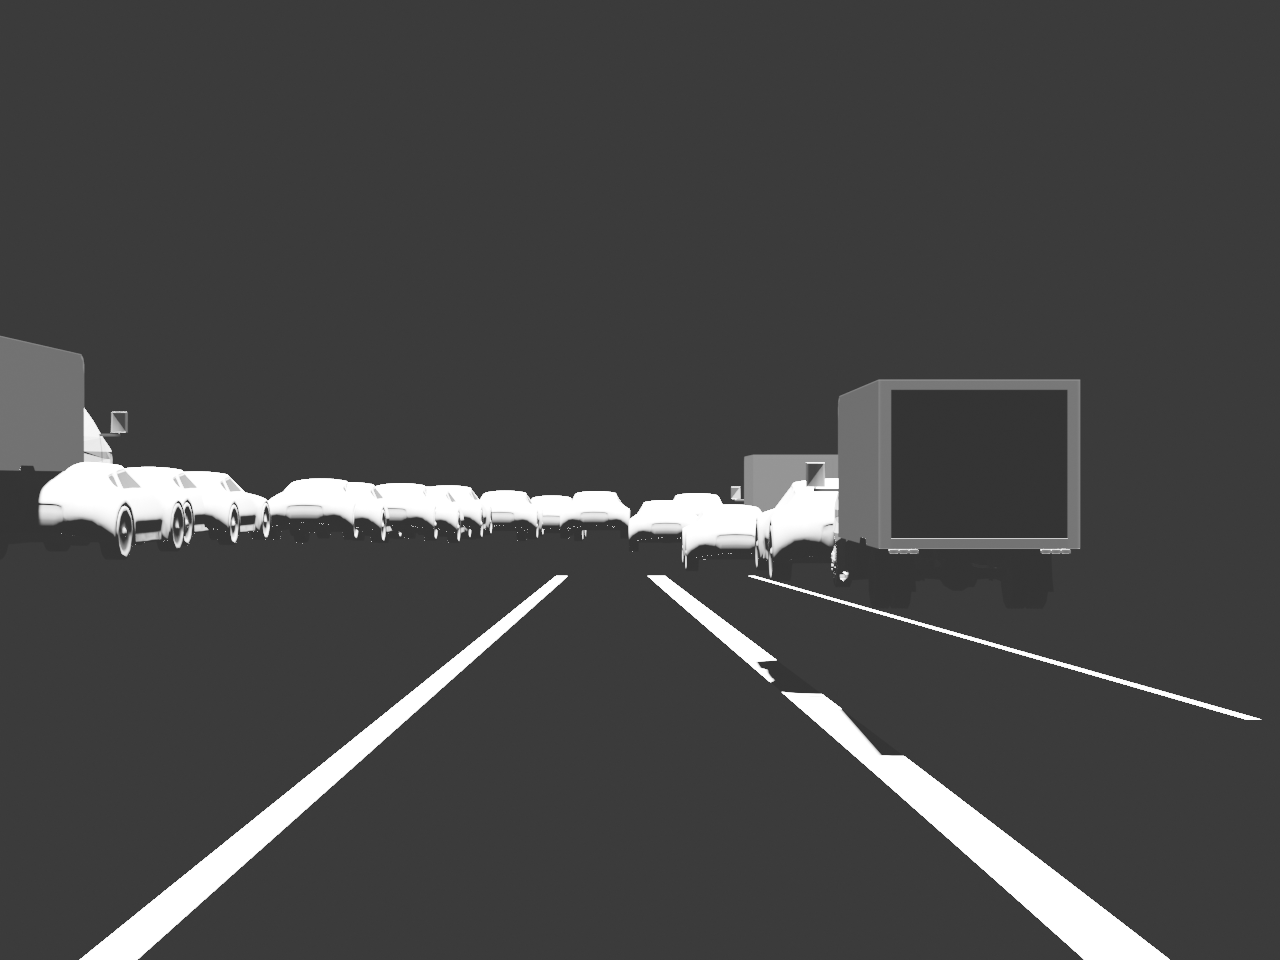
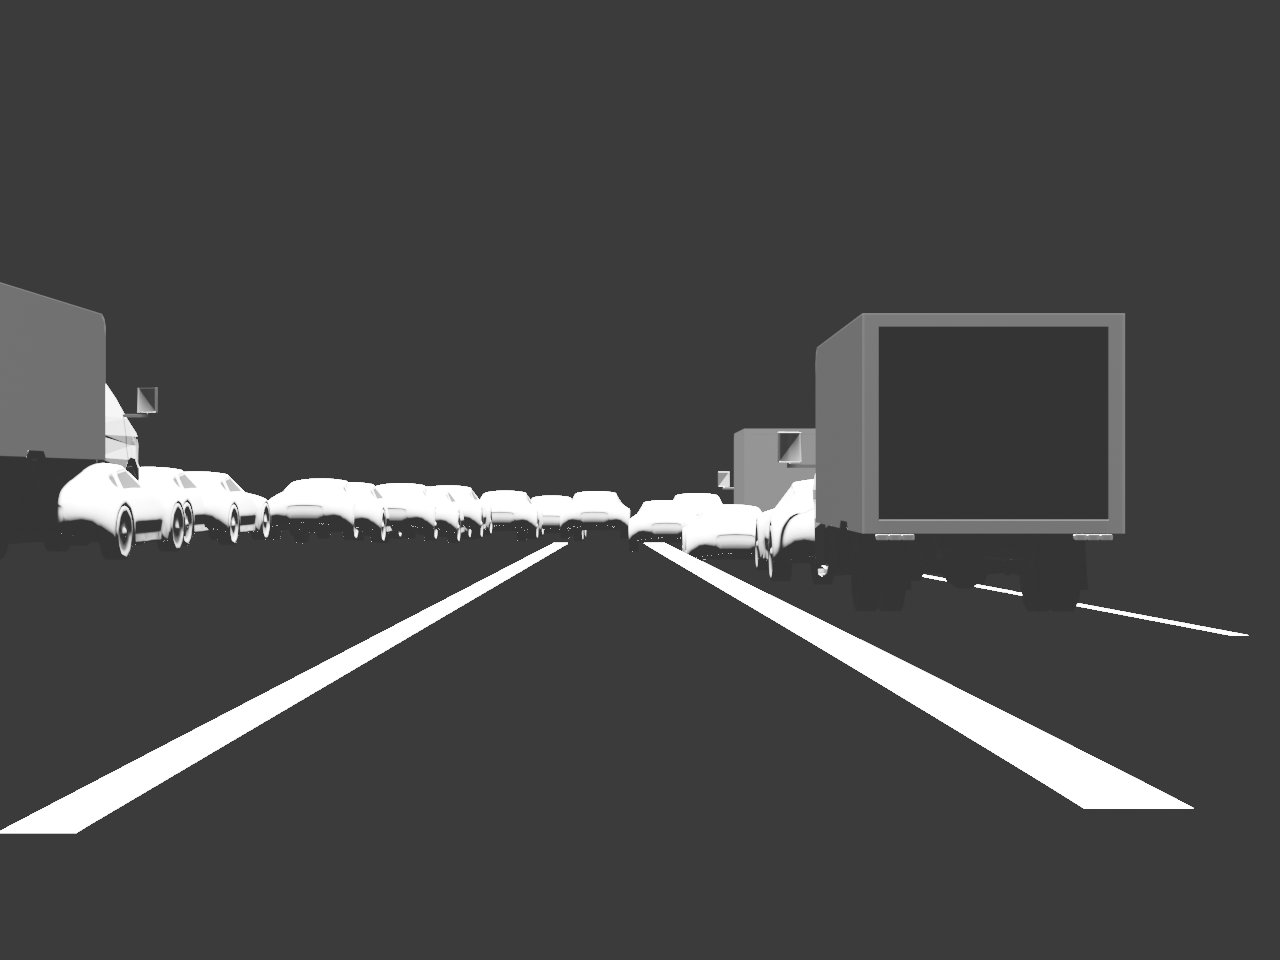
broke out one frame creation to a function

diff --git a/Code/blender_script1.py b/Code/blender_script1.py
@@ -31,9 +31,9 @@ class AssetKey(enum.Enum):
             case AssetKey.YOLOZOE_ASSETS:
                 return 50
             case AssetKey.CARPOSE_ASSETS:
-                return .005
+                return 5
             case AssetKey.LANES:
-                return 10
+                return 8
             case _:
                 return 1
     
@@ -45,9 +45,9 @@ class AssetKey(enum.Enum):
             case AssetKey.YOLOZOE_ASSETS:
                 return (-x, -z, -y)  #(-location[0], -location[2], -location[1])
             case AssetKey.CARPOSE_ASSETS:
-                return (x, -1/z, y)
+                return (x, -z, y)
             case AssetKey.LANES:
-                return (-x, -z, -y)
+                return (-x, -z, -y+5)
             case _:
                 return location
             
@@ -189,7 +189,7 @@ class AssetType(enum.Enum):
     Sedan = ("Vehicles/SedanAndHatchback.blend", "Car", (0, 0, 0), (0,0,0), .12, None)
     SUV = ("Vehicles/SUV.blend", "Jeep_3_", (0, 0, PI), (0, 0, 0), 20, None)
     PickupTruck = ("Vehicles/PickupTruck.blend", "PickupTruck", (PI/2, 0, PI/2), (0,0,0), 5, None)
-    Truck = ("Vehicles/Truck.blend", "Truck", (0, 0, PI), (0,0,0), .004, None)
+    Truck = ("Vehicles/Truck.blend", "Truck", (0, 0, PI), (0,0,0), .005, None)
     Bicycle = ("Vehicles/Bicycle.blend", "roadbike 2.0.1", (PI/2, 0, PI), (0,0,0), 0.9, None)
     Motorcycle = ("Vehicles/Motorcycle.blend", "B_Wheel", (PI/2, 0, -PI/2), (0,0,0), .04, None)
 
@@ -476,40 +476,32 @@ def create_traffic_lanes(lanes_data):
         lane = create_traffic_lane(points, i)
         # create_and_apply_texture_material(lane, lane_data['texture_path'])
 
-def main():
+def create_one_frame(frame_idx, scene = 1):
 
     print("Creating assetcontroller")
     asset_controller = AssetController(scene = 1, json_files= [
         (AssetKey.YOLOZOE_ASSETS, os.path.join(JSON_DATA_PATH, 'scene1/scene1-yolodepth2140.json')),
         # (AssetKey.CARPOSE_ASSETS, os.path.join(JSON_DATA_PATH, 'scene1/scene1-carposes2140.json')),
-        # (AssetKey.CARPOSE_ASSETS, os.path.join(JSON_DATA_PATH, 'scene5/scene5-carposes170.json')),
     ])
 
     clear_scene()
 
     asset_controller.place_first_frame(AssetKey.YOLOZOE_ASSETS)
         
-    # save_scene(os.path.join(ASSETS_DIR, "..", "script_test.blend"))
-    print("Finished creating, now rendering")
-
     cam = add_camera((0, 10, 2), (0, 0, 2))
-    print("Camera added: ", cam)
     set_active_camera(cam.name)
-    print("Camera set to active: ", cam)
 
     add_light((0, 0, 100), 'SUN', 100)
     add_light((0, 0, 0), 'SUN', 40)
 
-    # points = [(0, 0, 0), (0, -2, 0), (1, -8, 0), (2, -30, 0), (3, -40, 1), (4, -50, 0)]
-    # lane = create_traffic_lane([mathutils.Vector(point) for point in points], 0)
-    # create_and_apply_texture_material(lane, os.path.join(ASSETS_DIR, "DashedLine.png"))
-
     create_traffic_lanes(read_lane_data(os.path.join(JSON_DATA_PATH, "scene1", "scene1-lanes2140.json")))
 
     set_output_settings(os.path.join(OUTPUT_PATH, "P2Scene1Last.png"), frame_start=1, frame_end=1)
-    print("Output settings set")
     bpy.ops.render.render(write_still=True)
-    print("Rendered image")
+
+def main():
+
+    create_one_frame(2140)
 
 if __name__ == "__main__":
     main()
